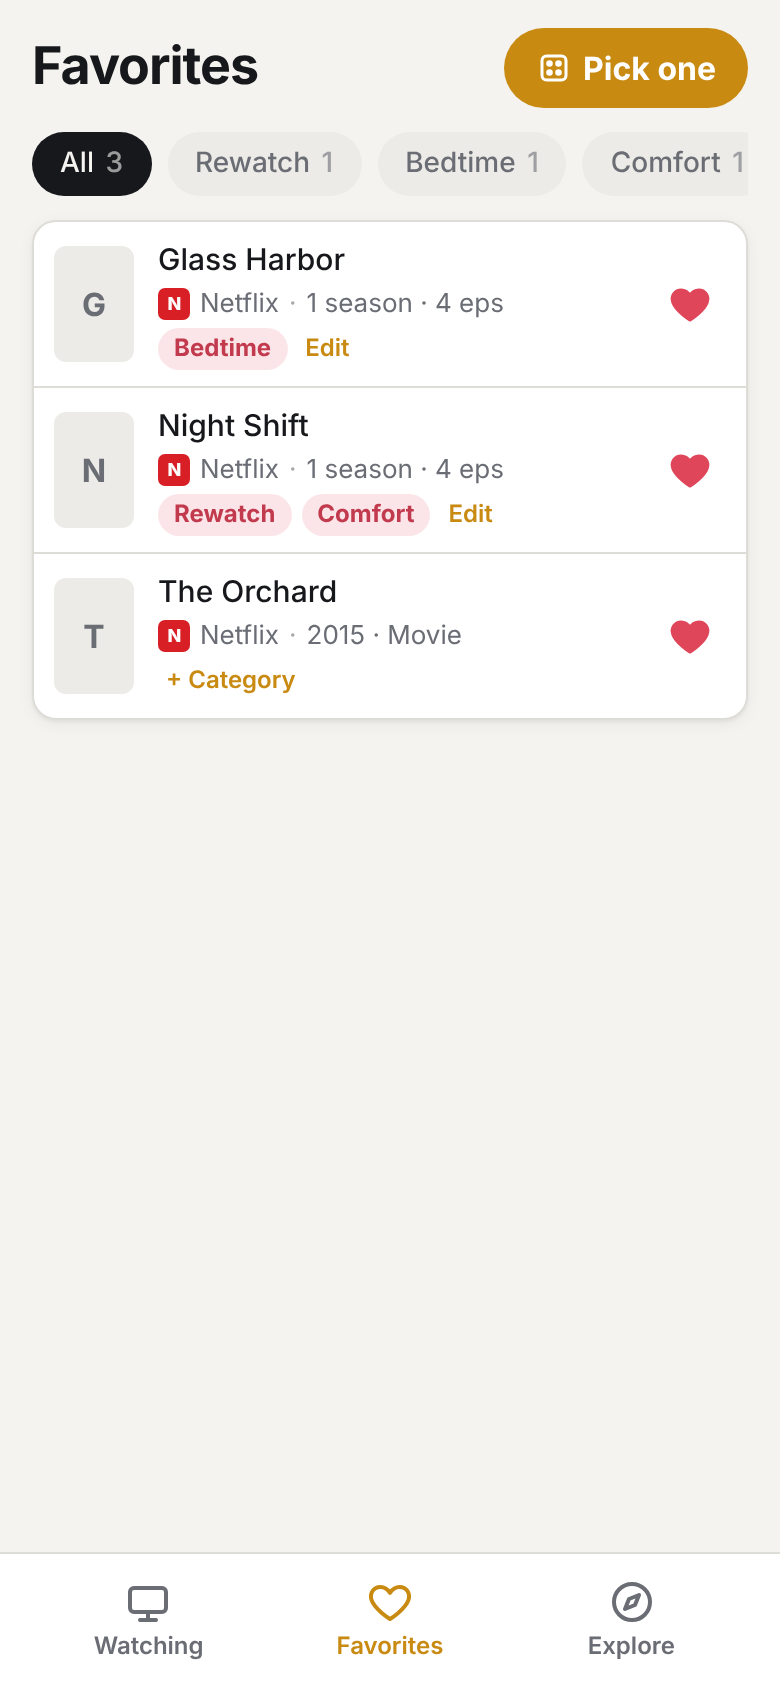
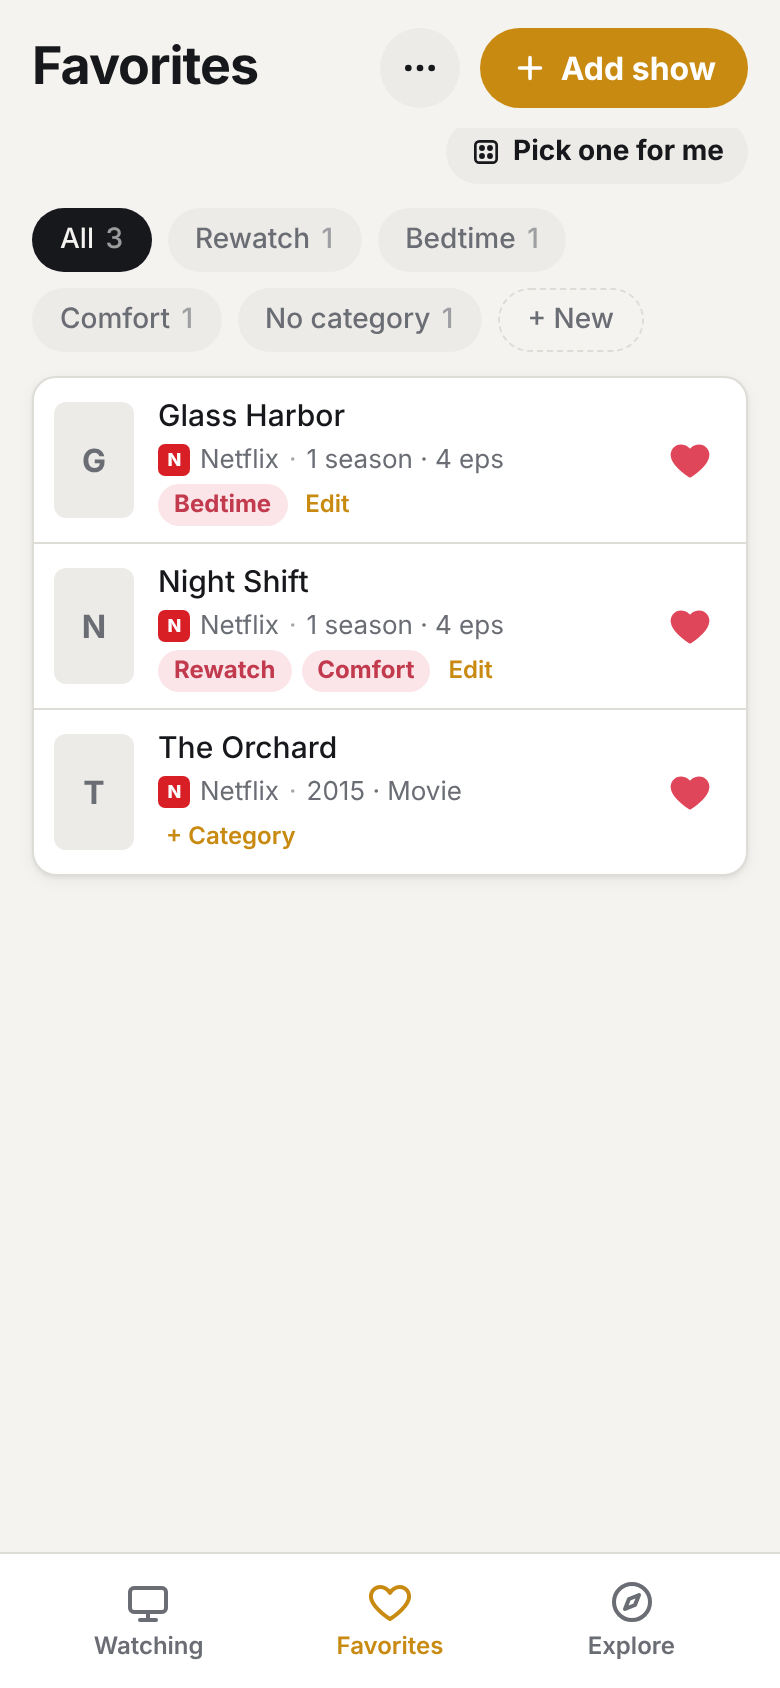
Explore service/sort dropdowns, my subscriptions, free services; same top bar on every tab
- Explore: Service dropdown (your subscriptions + all free services: Roku
  Channel, Tubi, Pluto TV, Plex, Kanopy, Hoopla) and Sort dropdown; includes
  free/ad-supported titles. 'Edit my services…' in the dropdown.
- My streaming services picker (after first sign-in, in the ⋯ menu, and
  in Explore); synced with the account.
- Hulu folds into Disney+.
- Watching / Favorites / Explore share one top bar (title, ⋯, Add show);
  Explore settings moved to the ⋯ menu; Pick one sits under the bar.
- Shared-list bar only appears once you're in a shared list.
- Button rows wrap instead of scrolling sideways.

Claude-Session: https://claude.ai/code/session_01UaPnu9ZXz2kShvWpW8kzpj

diff --git a/index.html b/index.html
@@ -44,7 +44,7 @@ header.bar h1{font-size:26px;font-weight:750;letter-spacing:-.02em;flex:1;min-wi
 .btn.danger{background:transparent;color:var(--danger);border:1px solid var(--line)}
 .icon-btn{width:40px;height:40px;border-radius:999px;display:inline-flex;align-items:center;justify-content:center;background:var(--surface2);flex:none}
 .icon-btn svg{width:20px;height:20px}
-.chips{display:flex;gap:8px;overflow-x:auto;padding:2px 0 12px;scrollbar-width:none}
+.chips{display:flex;flex-wrap:wrap;gap:8px;padding:2px 0 12px}
 .chips::-webkit-scrollbar{display:none}
 .chip{flex:none;height:32px;padding:0 14px;border-radius:999px;background:var(--surface2);font-size:14px;font-weight:550;color:var(--muted)}
 .chip.on{background:var(--text);color:var(--bg)}
@@ -214,6 +214,7 @@ a{color:var(--accent)}
 .catopt:last-child{border-bottom:0}
 .catopt input{width:20px;height:20px;accent-color:var(--accent)}
 .catopt span{flex:1}
+.catopt .svc-ico{flex:none}
 .catdel{color:var(--muted);width:36px;height:36px;font-size:14px}
 .star-btn svg{fill:none;stroke:currentColor}
 .star-btn.on{color:var(--accent)}
@@ -288,6 +289,12 @@ body.has-bulk{padding-bottom:calc(env(safe-area-inset-bottom) + 150px)}
 .tog input:checked + .track{background:var(--accent)}
 .tog input:checked + .track::after{transform:translateX(16px)}
 .tog input:focus-visible + .track{outline:2px solid var(--accent);outline-offset:2px}
+.provrow .seg{flex:none}
+.subs-banner{margin-bottom:12px}
+.provrow{display:flex;align-items:center;gap:10px;margin:0 0 12px}
+.provrow label{font-size:13px;font-weight:650;text-transform:uppercase;letter-spacing:.05em;color:var(--muted)}
+.provrow select{flex:1;min-width:0;height:42px;border-radius:10px;border:1px solid var(--line);background:var(--surface);padding:0 10px;font-size:16px;color:var(--text)}
+.tabtools{display:flex;justify-content:flex-end;margin:-4px 0 10px}
 .count{font-size:13px;color:var(--muted);font-variant-numeric:tabular-nums;flex:none;align-self:flex-start;padding-top:2px}
 .empty{text-align:center;color:var(--muted);padding:56px 16px}
 .empty h2{color:var(--text);font-size:20px;margin-bottom:6px}
@@ -435,7 +442,9 @@ const serviceOf = s => normalizeService((s.webChannel && s.webChannel.name) || (
 function normalizeService(name) {
   if (!name) return name || "";
   const n = String(name).trim().replace(/\s+(Amazon|Apple TV|Roku Premium) Channel$/i, "").replace(/\s+(Standard |Basic )?with Ads$/i, "");
-  return /^(hbo\b.*|max)$/i.test(n) ? "HBO Max" : n;
+  if (/^(hbo\b.*|max)$/i.test(n)) return "HBO Max";
+  if (/^hulu\b/i.test(n)) return "Disney+";   // Hulu now lives inside Disney+
+  return n;
 }
 function normalizeListServices(L) {
   for (const x of [...Object.values(L.shows || {}), ...Object.values(L.movies || {})]) {
@@ -520,6 +529,8 @@ const SERVICE_STYLE = [
   [/netflix/i, "N", "#d81f26"], [/hulu/i, "h", "#1ce783", "#0b0c0f"], [/^max$|hbo/i, "h", "#002be7"],
   [/disney/i, "D+", "#0b2a6f"], [/prime|amazon/i, "a", "#00a8e1"], [/apple/i, "tv", "#000000"],
   [/peacock/i, "P", "#5a2ca0"], [/paramount|cbs/i, "P+", "#0064ff"], [/youtube/i, "▶", "#ff0000"],
+  [/roku/i, "R", "#6c1fb5"], [/tubi/i, "t", "#ffef00", "#1a1a1a"], [/pluto/i, "P", "#1b1b1b"], [/plex/i, "P", "#e5a00d", "#1a1a1a"],
+  [/kanopy/i, "K", "#e04e39"], [/hoopla/i, "h", "#2196c4"], [/mgm/i, "M+", "#b08d2c"], [/britbox/i, "B", "#1d3b6b"],
   [/fx/i, "FX", "#222222"], [/amc/i, "A", "#111111"], [/starz/i, "S", "#111111"], [/showtime/i, "S", "#b10000"],
   [/abc/i, "abc", "#111111"], [/nbc/i, "N", "#5a2ca0"], [/fox/i, "F", "#003a70"], [/pbs/i, "P", "#2638c4"],
   [/bbc/i, "B", "#111111"], [/crunchyroll/i, "C", "#f47521"], [/cable|live/i, "TV", "#555b66"]
@@ -723,12 +734,7 @@ function renderHome() {
       <h1>${sel.items.size} selected</h1>
       <button class="btn ghost small" id="selAll">${sel.items.size ? "Clear" : "Select all"}</button>
       <button class="btn small" id="selDone">Done</button>
-    </header>` : `<header class="bar">
-      <h1>Watching</h1>
-      <button class="icon-btn" id="menuBtn" aria-label="Menu">${ICON.more}</button>
-      <button class="btn" id="addBtn">${ICON.plus.replace("<svg", '<svg width="18" height="18"')} Add show</button>
-    </header>`}
-    ${listSwitcherHtml()}
+    </header>${listSwitcherHtml()}` : topBarHtml("Watching")}
     ${account.enabled && account.ready && !account.user && !settings().hideAcctBanner ? `<div class="banner">
         <span>Save your list to a free account so it's safe and on all your devices.</span>
         <button class="btn small" id="bannerGo">Sign up</button><button class="x" id="bannerX" aria-label="Dismiss">✕</button></div>` : ""}
@@ -750,10 +756,8 @@ function renderHome() {
         <p style="margin-top:14px">or <a href="#/explore">explore what's popular</a></p>
       </div>`}
   `;
-  $("#addBtn") && ($("#addBtn").onclick = () => go("/add"));
-  bindListSwitcher();
+  bindTopBar();
   $("#addBtn2") && ($("#addBtn2").onclick = () => go("/add"));
-  $("#menuBtn") && ($("#menuBtn").onclick = openMainMenu);
   $("#hideEnded") && ($("#hideEnded").onchange = e => { settings().hideEnded = e.target.checked; saveDb(); renderHome(); });
   $("#selStart") && ($("#selStart").onclick = () => { sel.on = true; sel.items.clear(); renderHome(); });
   $("#selDone") && ($("#selDone").onclick = () => { sel.on = false; sel.items.clear(); renderHome(); });
@@ -883,6 +887,10 @@ function openMainMenu() {
           : `<p>Create a free account to save your shows and movies, and see them on any phone or computer.</p>
              <button class="btn" data-a="register">Create account</button>
              <button class="btn ghost" data-a="signin">Sign in</button>`}
+    <h3 style="margin-top:8px">Streaming services</h3>
+    <p>${mySubs() ? (mySubs().length ? "You pay for: " + mySubs().map(esc).join(", ") + "." : "No subscriptions picked (free services only).") : "Pick the services you pay for, so Explore shows what you can watch."}</p>
+    <button class="btn ghost" data-a="subs">My streaming services</button>
+    <button class="btn ghost" data-a="exset">Explore settings (TMDB key, country)</button>
     <h3 style="margin-top:8px">Backup</h3>
     <p>${u ? "Your list is saved to your account. You can also export a backup file." : "Without an account, your shows are saved in this browser only. Export a backup file to keep them safe or move them to another device."}</p>
     <button class="btn ghost" data-a="export">Export backup</button>
@@ -895,6 +903,8 @@ function openMainMenu() {
     on("signin", () => { close(); openAccountSheet("signin"); });
     on("signout", () => { close(); confirmSignOut(); });
     on("lists", () => { close(); openListsSheet(); });
+    on("subs", () => { close(); openServicesPicker(); });
+    on("exset", () => { close(); openExploreSettings(); });
   });
 }
 function exportBackup() {
@@ -1088,8 +1098,22 @@ function memberSummary(k) {
   const others = (L.members || []).filter(u => u !== me).map(u => ((L.memberNames || {})[u] || "Someone").split("@")[0]);
   return others.length ? "You and " + others.join(", ") : "Just you so far. Invite someone";
 }
+// Same top bar on Watching, Favorites and Explore.
+function topBarHtml(title) {
+  return `<header class="bar">
+      <h1>${esc(title)}</h1>
+      <button class="icon-btn" id="menuBtn" aria-label="Menu">${ICON.more}</button>
+      <button class="btn" id="addBtn">${ICON.plus.replace("<svg", '<svg width="18" height="18"')} Add show</button>
+    </header>
+    ${listSwitcherHtml()}`;
+}
+function bindTopBar() {
+  $("#menuBtn") && ($("#menuBtn").onclick = openMainMenu);
+  $("#addBtn") && ($("#addBtn").onclick = () => go("/add"));
+  bindListSwitcher();
+}
 function listSwitcherHtml() {
-  if (!account.user && !multiList()) return "";
+  if (!multiList()) return "";   // only once you're in a shared list
   const k = db.active;
   return `<button class="listsw" id="listSw" aria-label="Switch list">${k === "me" ? ICON.person : ICON.people}<span class="ln">${esc(listName(k))}</span>
     ${k !== "me" ? `<span class="lsub">${esc(memberSummary(k))}</span>` : ""}<svg class="dd" viewBox="0 0 24 24" fill="none" stroke="currentColor" stroke-width="2.4" stroke-linecap="round" stroke-linejoin="round"><path d="M6 9l6 6 6-6"/></svg></button>`;
@@ -1358,11 +1382,8 @@ function renderFavorites() {
   const none = favs.filter(f => !(f.it.favCats || []).length).length;
   const shown = favs.filter(f => favFilter === "All" || (favFilter === "None" ? !(f.it.favCats || []).length : (f.it.favCats || []).includes(favFilter)));
   app.innerHTML = `
-    <header class="bar">
-      <h1>Favorites</h1>
-      ${favs.length ? `<button class="btn" id="favPick">${ICON.dice.replace("<svg", '<svg width="18" height="18"')} Pick one</button>` : ""}
-    </header>
-    ${listSwitcherHtml()}
+    ${topBarHtml("Favorites")}
+    ${favs.length ? `<div class="tabtools"><button class="btn ghost small" id="favPick">${ICON.dice.replace("<svg", '<svg width="16" height="16"')} Pick one for me</button></div>` : ""}
     ${favs.length ? `
       <div class="chips">
         <button class="chip ${favFilter === "All" ? "on" : ""}" data-cat="All">All <span class="cn">${favs.length}</span></button>
@@ -1378,7 +1399,7 @@ function renderFavorites() {
         <p>Tap the ♡ on any show or movie (on its page, in search results, or in Explore) to save it here for rewatching.</p>
       </div>`}
   `;
-  bindListSwitcher();
+  bindTopBar();
   $("#favPick") && ($("#favPick").onclick = () => pickFavorite(favFilter === "None" ? "All" : favFilter));
   app.querySelectorAll("[data-cat]").forEach(b => b.onclick = () => { favFilter = b.dataset.cat; renderFavorites(); });
   $("#newCat") && ($("#newCat").onclick = () => newCategory(c => { favFilter = c; renderFavorites(); }));
@@ -1591,11 +1612,31 @@ async function tmdb(path, params = {}) {
   if (!r.ok) throw new Error("TMDB returned " + r.status);
   return r.json();
 }
+// [label, TMDB provider-name pattern, group]
 const MAIN_PROVIDERS = [
-  ["Netflix", /^netflix$/i], ["Prime Video", /^amazon prime video$/i], ["Disney+", /^disney( plus|\+)$/i],
-  ["HBO Max", /^(hbo )?max$/i], ["Hulu", /^hulu$/i], ["Apple TV+", /^apple tv( plus|\+)?$/i],
-  ["Peacock", /^peacock( premium)?( plus)?$/i], ["Paramount+", /^paramount( plus|\+)$/i]
+  ["Netflix", /^netflix$/i], ["Prime Video", /^amazon prime video$/i], ["Disney+", /^(disney( plus|\+)|hulu)$/i],
+  ["HBO Max", /^(hbo )?max$/i], ["Apple TV+", /^apple tv( plus|\+)?$/i],
+  ["Peacock", /^peacock( premium)?( plus)?$/i], ["Paramount+", /^paramount( plus|\+)$/i],
+  ["Starz", /^starz$/i], ["MGM+", /^mgm( plus|\+)$/i], ["AMC+", /^amc( plus|\+)$/i], ["Crunchyroll", /^crunchyroll$/i], ["BritBox", /^britbox$/i],
+  ["The Roku Channel", /^the roku channel$/i, "free"], ["Tubi", /^tubi( tv)?$/i, "free"], ["Pluto TV", /^pluto tv$/i, "free"],
+  ["Plex", /^plex$/i, "free"], ["Kanopy", /^kanopy$/i, "free"], ["Hoopla", /^hoopla$/i, "free"]
 ];
+const PAID_SERVICES = MAIN_PROVIDERS.filter(p => !p[2]).map(p => p[0]);
+const mySubs = () => Array.isArray(settings().mySubs) ? settings().mySubs : null;   // null = not chosen yet
+function openServicesPicker(after) {
+  const cur = new Set(mySubs() || []);
+  sheet(`
+    <h3>My streaming services</h3>
+    <p>Tick the ones you pay for. Explore will show those plus all the free services.</p>
+    <div class="catlist">${PAID_SERVICES.map(n => `<label class="catopt">${serviceIcon(n, 26)}<span>${esc(n)}</span><input type="checkbox" value="${esc(n)}" ${cur.has(n) ? "checked" : ""}></label>`).join("")}</div>
+    <button class="btn" data-a="save">Save</button>
+  `, (m, close) => {
+    m.querySelector('[data-a="save"]').onclick = () => {
+      settings().mySubs = [...m.querySelectorAll(".catopt input:checked")].map(i => i.value);
+      saveDb(); close(); toast("Saved your services."); after ? after() : refresh();
+    };
+  });
+}
 const friendlyProvider = name => { const n = normalizeService(name); return (MAIN_PROVIDERS.find(([, re]) => re.test(n)) || [n])[0]; };
 const providerCache = {};
 async function providers(type) {
@@ -1603,24 +1644,24 @@ async function providers(type) {
   if (providerCache[k]) return providerCache[k];
   const list = (await tmdb(`/watch/providers/${type}`, { watch_region: region() })).results || [];
   const out = [];
-  for (const [label, re] of MAIN_PROVIDERS) {
+  for (const [label, re, group] of MAIN_PROVIDERS) {
     const hits = list.filter(p => re.test(p.provider_name.trim()));
-    if (hits.length) out.push({ label, ids: hits.map(p => p.provider_id), logo: hits[0].logo_path });
+    if (hits.length) out.push({ label, ids: hits.map(p => p.provider_id), logo: hits[0].logo_path, free: group === "free" });
   }
   return (providerCache[k] = out);
 }
+// Your subscriptions (or all, if you haven't chosen) plus every free service.
+const visibleProviders = provs => { const subs = mySubs(); return provs.filter(p => p.free || !subs || subs.includes(p.label)); };
 const ex = { type: "tv", prov: "All", sort: "popular", page: 1, pages: 1, items: [], seq: 0, error: null, loading: false };
 
+const reExplore = () => { if (location.hash === "#/explore") renderExplore(); };
 function renderExplore() {
   app.innerHTML = `
-    <header class="bar">
-      <h1>Explore</h1>
-      <button class="icon-btn" id="exSettings" aria-label="Explore settings"><svg viewBox="0 0 24 24" fill="none" stroke="currentColor" stroke-width="2" stroke-linecap="round" stroke-linejoin="round"><circle cx="12" cy="12" r="3"/><path d="M19.4 15a1.7 1.7 0 0 0 .3 1.8l.1.1a2 2 0 1 1-2.8 2.8l-.1-.1a1.7 1.7 0 0 0-1.8-.3 1.7 1.7 0 0 0-1 1.5V21a2 2 0 1 1-4 0v-.1a1.7 1.7 0 0 0-1.1-1.5 1.7 1.7 0 0 0-1.8.3l-.1.1a2 2 0 1 1-2.8-2.8l.1-.1a1.7 1.7 0 0 0 .3-1.8 1.7 1.7 0 0 0-1.5-1H3a2 2 0 1 1 0-4h.1a1.7 1.7 0 0 0 1.5-1.1 1.7 1.7 0 0 0-.3-1.8l-.1-.1a2 2 0 1 1 2.8-2.8l.1.1a1.7 1.7 0 0 0 1.8.3H9a1.7 1.7 0 0 0 1-1.5V3a2 2 0 1 1 4 0v.1a1.7 1.7 0 0 0 1 1.5 1.7 1.7 0 0 0 1.8-.3l.1-.1a2 2 0 1 1 2.8 2.8l-.1.1a1.7 1.7 0 0 0-.3 1.8V9a1.7 1.7 0 0 0 1.5 1H21a2 2 0 1 1 0 4h-.1a1.7 1.7 0 0 0-1.5 1z"/></svg></button>
-    </header>
+    ${topBarHtml("Explore")}
     <div id="exBody"></div>
     <p class="credit">Show and movie info from TMDB; streaming availability from JustWatch. This app uses the TMDB API but is not endorsed or certified by TMDB.</p>
   `;
-  $("#exSettings").onclick = openExploreSettings;
+  bindTopBar();
   if (!tmdbKey()) return drawExploreSetup();
   drawExploreControls();
   if (!ex.items.length && !ex.loading) loadExplore(true); else drawExploreGrid();
@@ -1649,7 +1690,7 @@ async function saveKey(val, errEl) {
   try {
     for (const k in providerCache) delete providerCache[k];
     await providers("tv");
-    saveDb(); ex.items = []; renderExplore();
+    saveDb(); ex.items = []; reExplore();
     return true;
   } catch (e) {
     settings().tmdbKey = old;
@@ -1670,7 +1711,7 @@ function openExploreSettings() {
       for (const k in providerCache) delete providerCache[k];
       ex.items = []; ex.prov = "All";
       const ok = await saveKey(m.querySelector("#setKey").value, m.querySelector("#setErr"));
-      if (ok || !tmdbKey()) { saveDb(); close(); renderExplore(); }
+      if (ok || !tmdbKey()) { saveDb(); close(); reExplore(); }
     };
   });
 }
@@ -1678,8 +1719,9 @@ async function drawExploreControls() {
   const body = $("#exBody");
   body.innerHTML = `
     <div class="seg">${[["tv", "TV shows"], ["movie", "Movies"]].map(([v, l]) => `<button data-type="${v}" class="${ex.type === v ? "on" : ""}">${l}</button>`).join("")}</div>
-    <div class="chips" id="provChips"><button class="chip on">All services</button></div>
-    <div class="toolbar"><div class="chips sorts">${[["popular", "Most popular"], ["top", "Top rated"], ["new", "Newest"]].map(([v, l]) => `<button class="chip ${ex.sort === v ? "on" : ""}" data-sort="${v}">${l}</button>`).join("")}</div>
+    ${mySubs() ? "" : `<div class="banner subs-banner"><span>Tell Explore which services you pay for, so it only shows what you can watch.</span><button class="btn small" id="pickSubs">Choose</button></div>`}
+    <div class="provrow"><label for="provSel">Service</label><select id="provSel"><option value="All">All services</option></select></div>
+    <div class="provrow"><label for="sortSel">Sort</label><select id="sortSel">${[["popular", "Most popular"], ["top", "Top rated"], ["new", "Newest"]].map(([v, l]) => `<option value="${v}" ${ex.sort === v ? "selected" : ""}>${l}</option>`).join("")}</select>
       ${viewToggleHtml(settings().exView === "text")}</div>
     <div id="exGrid"></div>`;
   body.querySelectorAll("[data-type]").forEach(b => b.onclick = () => { if (ex.type !== b.dataset.type) { ex.type = b.dataset.type; drawExploreControls(); loadExplore(true); } });
@@ -1688,15 +1730,23 @@ async function drawExploreControls() {
     body.querySelectorAll("[data-view]").forEach(x => x.classList.toggle("on", x === b));
     drawExploreGrid();
   });
-  body.querySelectorAll("[data-sort]").forEach(b => b.onclick = () => { ex.sort = b.dataset.sort; body.querySelectorAll("[data-sort]").forEach(x => x.classList.toggle("on", x === b)); loadExplore(true); });
+  $("#sortSel").onchange = e => { ex.sort = e.target.value; loadExplore(true); };
+  $("#pickSubs") && ($("#pickSubs").onclick = () => openServicesPicker(() => { drawExploreControls(); loadExplore(true); }));
   try {
     const provs = await providers(ex.type);
-    if (!provs.some(p => p.label === ex.prov)) ex.prov = "All";
-    const chips = $("#provChips");
-    if (!chips) return;
-    chips.innerHTML = [{ label: "All" }, ...provs].map(p => `<button class="chip prov ${ex.prov === p.label ? "on" : ""}" data-prov="${esc(p.label)}">
-      ${p.logo ? `<img onerror="this.remove()" src="${IMG}w92${esc(p.logo)}" alt="">` : ""}${p.label === "All" ? "All services" : esc(p.label)}</button>`).join("");
-    chips.querySelectorAll("[data-prov]").forEach(b => b.onclick = () => { ex.prov = b.dataset.prov; chips.querySelectorAll("[data-prov]").forEach(x => x.classList.toggle("on", x === b)); loadExplore(true); });
+    if (!visibleProviders(provs).some(p => p.label === ex.prov)) ex.prov = "All";
+    const selEl = $("#provSel");
+    if (!selEl) return;
+    const opt = p => `<option value="${esc(p.label)}" ${ex.prov === p.label ? "selected" : ""}>${esc(p.label)}</option>`;
+    const paid = visibleProviders(provs).filter(p => !p.free), free = provs.filter(p => p.free);
+    selEl.innerHTML = `<option value="All" ${ex.prov === "All" ? "selected" : ""}>All services</option>
+      ${paid.length ? `<optgroup label="Subscription">${paid.map(opt).join("")}</optgroup>` : ""}
+      ${free.length ? `<optgroup label="Free (with ads or library card)">${free.map(opt).join("")}</optgroup>` : ""}
+      <option value="__edit">Edit my services…</option>`;
+    selEl.onchange = () => {
+      if (selEl.value === "__edit") { selEl.value = ex.prov; return openServicesPicker(() => { drawExploreControls(); loadExplore(true); }); }
+      ex.prov = selEl.value; loadExplore(true);
+    };
   } catch {}
 }
 async function loadExplore(reset) {
@@ -1705,9 +1755,10 @@ async function loadExplore(reset) {
   ex.loading = true; drawExploreGrid();
   try {
     const provs = await providers(ex.type);
-    const ids = ex.prov === "All" ? provs.flatMap(p => p.ids) : (provs.find(p => p.label === ex.prov) || { ids: [] }).ids;
+    const vis = visibleProviders(provs);
+    const ids = ex.prov === "All" ? vis.flatMap(p => p.ids) : (vis.find(p => p.label === ex.prov) || { ids: [] }).ids;
     const dateField = ex.type === "tv" ? "first_air_date" : "primary_release_date";
-    const params = { watch_region: region(), with_watch_providers: ids.join("|"), with_watch_monetization_types: "flatrate",
+    const params = { watch_region: region(), with_watch_providers: ids.join("|"), with_watch_monetization_types: "flatrate|free|ads",
                      page: ex.page, include_adult: "false", language: navigator.language || "en-US" };
     if (ex.sort === "popular") params.sort_by = "popularity.desc";
     if (ex.sort === "top") { params.sort_by = "vote_average.desc"; params["vote_count.gte"] = ex.type === "tv" ? 200 : 500; }
@@ -1735,7 +1786,9 @@ function libraryEntry(type, item) {
 }
 const inLibrary = (type, item) => { const e = libraryEntry(type, item); return !!e && isListed(storeOf(e.kind)[e.id]); };
 const tmdbDetails = (type, id) => tmdb(`/${type}/${id}`, { append_to_response: type === "tv" ? "watch/providers,external_ids" : "watch/providers", language: navigator.language || "en-US" });
-const streamingOn = d => (((d["watch/providers"] || {}).results || {})[region()]?.flatrate || []);
+// Where to watch without renting/buying: subscription, free, or free with ads.
+const streamingOn = d => { const r = ((d["watch/providers"] || {}).results || {})[region()] || {};
+  const seen = new Set(); return [...(r.flatrate || []), ...(r.free || []), ...(r.ads || [])].filter(p => !seen.has(p.provider_id) && seen.add(p.provider_id)); };
 function pickServiceFrom(d) {
   const names = streamingOn(d).map(p => friendlyProvider(p.provider_name));
   return ex.prov !== "All" && names.includes(ex.prov) ? ex.prov : names[0] || "";
@@ -1822,7 +1875,7 @@ async function openExploreItem(type, id) {
   }
   const title = d.title || d.name;
   const year = (d.release_date || d.first_air_date || "").slice(0, 4);
-  const flat = ((d["watch/providers"] || {}).results || {})[region()]?.flatrate || [];
+  const flat = streamingOn(d);
   const facts = type === "tv"
     ? [year, d.number_of_seasons && `${d.number_of_seasons} season${d.number_of_seasons === 1 ? "" : "s"}`, d.number_of_episodes && `${d.number_of_episodes} episodes`]
     : [year, d.runtime && `${Math.floor(d.runtime / 60)}h ${d.runtime % 60}m`];
@@ -2039,7 +2092,8 @@ function summaryHtml(show) {
        + tile(reg.length, reg.length === 1 ? "Episode" : "Episodes", `${watched} watched`)
        + tile(airedLeft, "Left to watch", notOut ? `+${notOut} not out yet` : "all are out");
 }
-const MAIN_SERVICES = ["Netflix", "Hulu", "HBO Max", "Disney+", "Prime Video", "Apple TV+", "Peacock", "Paramount+", "YouTube", "YouTube TV", "Cable / Live TV"];
+const MAIN_SERVICES = ["Netflix", "HBO Max", "Disney+", "Prime Video", "Apple TV+", "Peacock", "Paramount+", "Starz", "AMC+", "Crunchyroll",
+  "The Roku Channel", "Tubi", "Pluto TV", "YouTube", "YouTube TV", "Cable / Live TV"];
 const OTHER = "__other__";
 function serviceOptions(show) {
   const cur = show.service || "";
@@ -2212,7 +2266,7 @@ function listPayload(key) {
     shows[id] = keep;
   }
   const out = { shows, movies: L.movies || {}, favCategories: L.favCategories || null };
-  if (key === "me") { const st = settings(); out.v = 1; out.settings = { view: st.view, region: st.region, tmdbKey: st.tmdbKey, hideEnded: st.hideEnded }; }
+  if (key === "me") { const st = settings(); out.v = 1; out.settings = { view: st.view, region: st.region, tmdbKey: st.tmdbKey, hideEnded: st.hideEnded, mySubs: st.mySubs }; }
   else out.name = L.name || "Shared list";
   return JSON.parse(JSON.stringify(out)); // drops undefined values (Firestore rejects them)
 }
@@ -2341,6 +2395,7 @@ async function linkAccount(user) {
       if (cloud) applyListData("me", mergeLocalInto(cloud));
       db.linkedUid = user.uid; writeLocal();
       await pushNow("me");
+      if (!mySubs()) setTimeout(() => openServicesPicker(), 600);   // first sign-in here: which services do you pay for?
     }
     account.lastSync = Date.now();
   } catch (e) {
